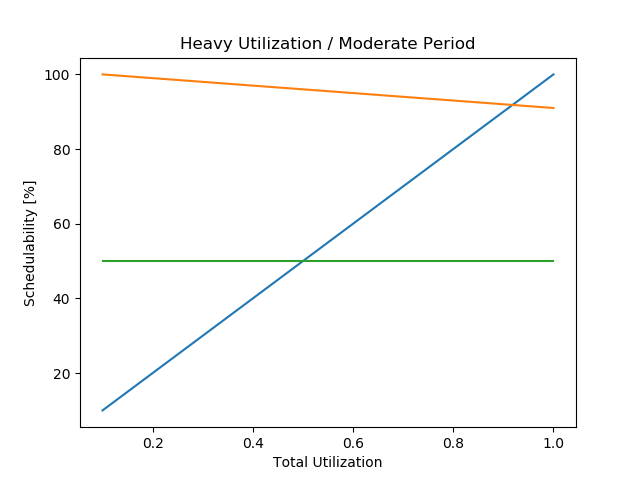
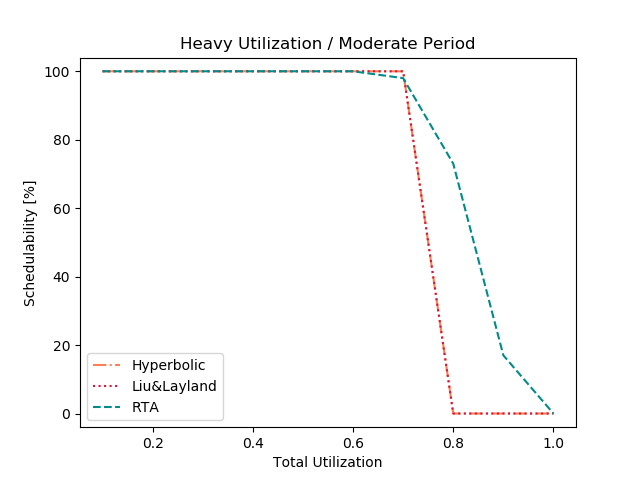
Changes from branch with_case added to master

diff --git a/1_Trabalho/tests.py b/1_Trabalho/tests.py
@@ -1,5 +1,6 @@
 import math
 import matplotlib.pyplot as plt
+from random import random, randint
 
 # Every test function returns 1 in case of success and 0 otherwise
 def hyperbolic_test(utilization):
@@ -14,14 +15,17 @@ def hyperbolic_test(utilization):
 def liu_lay_test(utilization, period):
     utilization_sum = 0
     harmonic = True
+    w0 = period[0]
     n = 0
     test = 0
     for u in utilization:
         utilization_sum += u
-        n += 1
         if n > 0 and harmonic:
-            if period[n] % period[n+1] != 0 and period[n+1] % period[n] != 0:
+            if period[n] % w0 != 0 and w0 % period[n] != 0:
                 harmonic = False
+            elif period[n] < w0:
+                    w0 = period[n]
+        n += 1
 
     if harmonic:
         test = 1
@@ -109,33 +113,133 @@ def plotGraph(case, graphH, graphL, graphR):
 
     x = [0.1, 0.2, 0.3, 0.4, 0.5, 0.6, 0.7, 0.8, 0.9, 1]
     fig = plt.figure()
-    plt.plot(x, graphH)
-    plt.plot(x, graphL)
-    plt.plot(x, graphR)
+    plt.plot(x, graphH, '-.', color = "#FF7F50", label = "Hyperbolic")
+    plt.plot(x, graphL, ':', color = "#DC143C", label = "Liu&Layland")
+    plt.plot(x, graphR, '--', color = "#008B8B", label = "RTA")
 
+    plt.legend(loc="lower left")
     plt.title(title)
     plt.xlabel("Total Utilization")
     plt.ylabel("Schedulability [%]")
+    plt.ylim(-4, 104)
     plt.savefig(filename)
 
+
+def random_uniform(min, max):
+    # Light and moderate period
+    if max % min == 0:
+        return ((int(random() * 1000) % int(max/min)) + 1) * min
+        # e.g. min = .0001 ; max = .01
+        # max / min = 100
+        # Generates number between [1, 100]
+        # Multiplies by .0001
+
+    # Heavy period
+    else:
+        return (int((random() * 10) + 1) * 0.001) + min
+
 def generateTaskSet(max_utilization, case):
-    # if case == 0: light | light
-    # elif case == 1: light | moderate
-    # ...
+    min_utilization_case = 0.0
+    max_utilization_case = 0.0
+    min_period_case = 0.0
+    max_period_case = 0.0
+    
+    #Set the parameters to the given case
+    if case == 0:
+        min_utilization_case = 0.0001
+        max_utilization_case = 0.01
+        min_period_case = 3E-3
+        max_period_case = 33E-3
+    elif case == 1:
+        min_utilization_case = 0.0001
+        max_utilization_case = 0.01
+        min_period_case = 10E-3
+        max_period_case = 100E-3
+    elif case == 2:
+        min_utilization_case = 0.0001
+        max_utilization_case = 0.01
+        min_period_case = 50E-3
+        max_period_case = 250E-3
+    elif case == 3:
+        min_utilization_case = 0.001
+        max_utilization_case = 0.09
+        min_period_case = 3E-3
+        max_period_case = 33E-3
+    elif case == 4:
+        min_utilization_case = 0.001
+        max_utilization_case = 0.09
+        min_period_case = 10E-3
+        max_period_case = 100E-3
+    elif case == 5:
+        min_utilization_case = 0.001
+        max_utilization_case = 0.09
+        min_period_case = 50E-3
+        max_period_case = 250E-3
+    elif case == 6:
+        min_utilization_case = 0.09
+        max_utilization_case = 0.1
+        min_period_case = 3E-3
+        max_period_case = 33E-3
+    elif case == 7:
+        min_utilization_case = 0.09
+        max_utilization_case = 0.1
+        min_period_case = 10E-3
+        max_period_case = 100E-3
+    elif case == 8:
+        min_utilization_case = 0.09
+        max_utilization_case = 0.1
+        min_period_case = 50E-3
+        max_period_case = 250E-3
 
     arrayUtilization = []
     arrayPeriod = []
 
+    if case >= 6:
+        # Heavy utilization
+        if max_utilization < 0.9:
+            # Only possible combination is (10 * max_utilization) tasks of max_utilization_case
+            for n in range(0, int(10 * max_utilization)):
+                arrayUtilization.append(max_utilization_case)
+                arrayPeriod.append(random_uniform(min_period_case, max_period_case))
+
+        else:
+            # Can only be all max_utilization_case or all min_utilization_case + 1 task
+            usesMinUtilization = int(random() * 2) % 2
+            for n in range(0, int(10 * max_utilization) + usesMinUtilization):
+                arrayPeriod.append(random_uniform(min_period_case,max_period_case))
+                if usesMinUtilization == 1:
+                    if n == 10:
+                        # For 1.0 utilization, last task has to have max_utilization_case
+                        arrayUtilization.append(max_utilization_case)
+                    else:
+                        arrayUtilization.append(min_utilization_case)
+                else:
+                    arrayUtilization.append(max_utilization_case)
+
+        return arrayUtilization, arrayPeriod
+
+    else:
+        current_utilization = 0.0
+        while current_utilization < max_utilization:
+            arrayPeriod.append(random_uniform(min_period_case,max_period_case))
+            if(max_utilization - current_utilization < max_utilization_case and not(max_utilization - current_utilization > min_utilization_case)):
+                arrayUtilization.append(max_utilization - current_utilization)
+                current_utilization = max_utilization
+            else:
+                holder = random_uniform(min_utilization_case, max_utilization_case)
+                current_utilization += holder
+                arrayUtilization.append(holder)
+
     return arrayUtilization, arrayPeriod
+
 
 def main():
 
     plt.ion() # Sets plotting functions as non-blocking
 
-    # REMOVE DEFAULT VALUES (use "graphH = []") ---------------------------------
-    graphH = [10, 20, 30, 40, 50, 60, 70, 80, 90, 100] # Stores values of current graphic for Liu&Layland test
-    graphL = [100, 99, 98, 97, 96, 95, 94, 93, 92, 91] # Stores values of current graphic for Hyperbolic test
-    graphR = [50, 50, 50, 50, 50, 50, 50, 50, 50, 50] # Stores values of current graphic for RTA test
+    graphH = [] # Stores values of current graphic for Liu&Layland test
+    graphL = [] # Stores values of current graphic for Hyperbolic test
+    graphR = [] # Stores values of current graphic for RTA test
 
     countH = 0 # Counts how many task sets could be scheduled by Hyperbolic test
     countL = 0 # Counts how many task sets could be scheduled by Liu&Layland test
@@ -154,15 +258,19 @@ def main():
                 countL += liu_lay_test(arrayUtilization, arrayPeriod)
                 countR += rta_test(arrayUtilization, arrayPeriod)
 
-            # UNCOMMENT ----------------------
-            # graphH.append(countH)
-            # graphL.append(countL)
-            # graphR.append(countR)
+            graphH.append(countH)
+            graphL.append(countL)
+            graphR.append(countR)
 
             countH = countL = countR = 0
             max_util += 0.1
+            max_util = round(10 * max_util) / 10
         
         plotGraph(case, graphH, graphL, graphR)
+        graphH = []
+        graphL = []
+        graphR = []
+        max_util = 0.1
 
     # Blocks script while plots are open
     plt.ioff()
